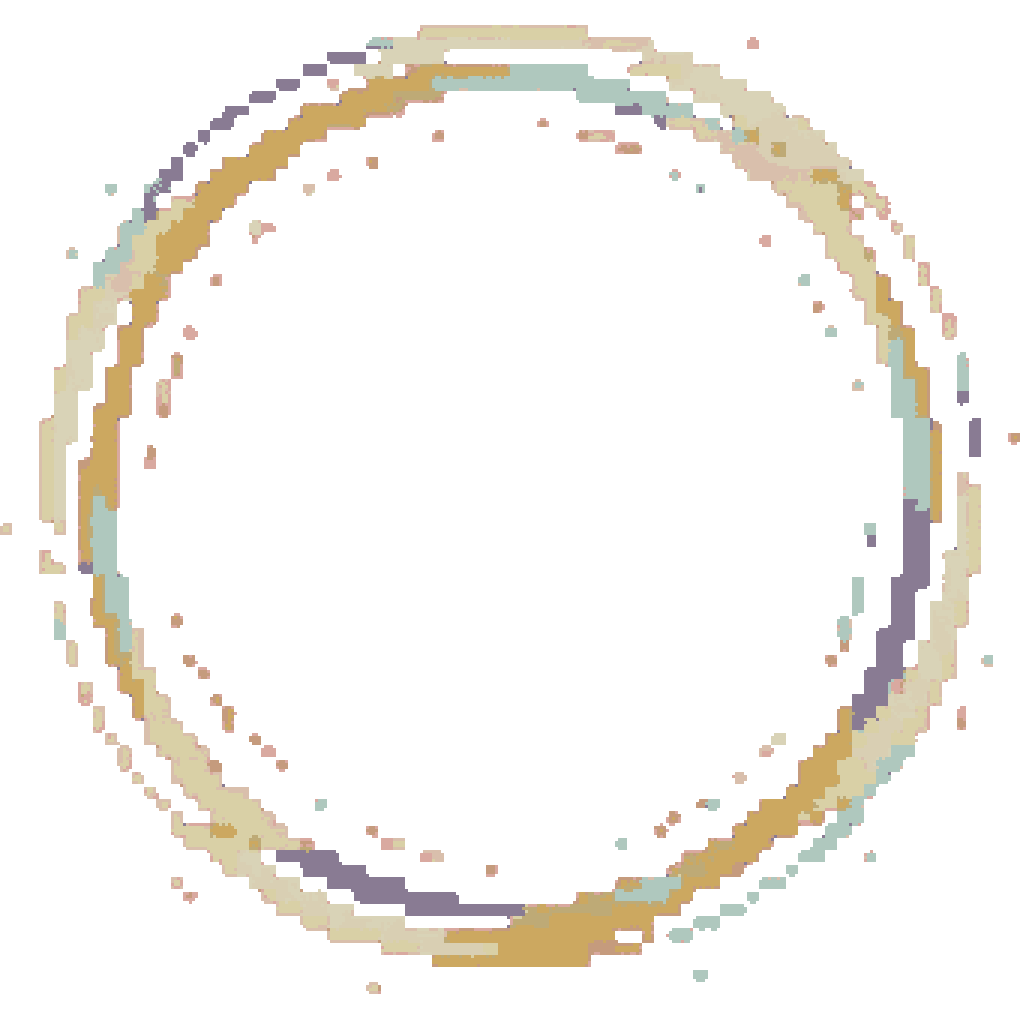
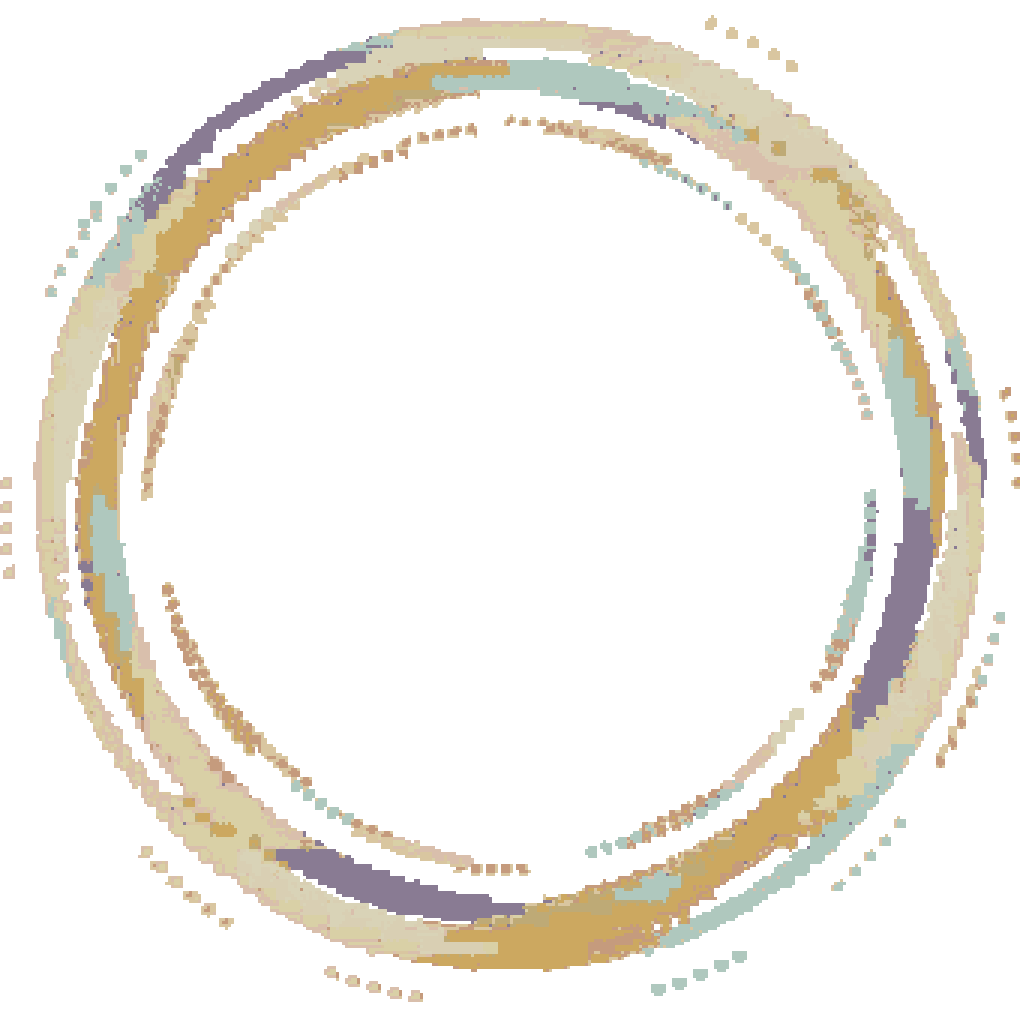
pixfx 第三组第二轮：流明碎光环三变体补成连续环、去洋红残边；docs/199 §7.9 补用户第二轮（忍冬一道斩痕 + 入场顿帧）、预审结论与 ensure_imported 不重导改图的坑

diff --git a/docs/199_ult_proto.md b/docs/199_ult_proto.md
@@ -360,6 +360,9 @@ cloud-results/ult-T2 3c1e79e0f（`python tools/ult_pair.py --t0 cloud-results/ul
 - 同 seed TRACE（seed 3、60 秒、终结技 20 秒放 1 次）：流明 / 水月 / 铃兰与 ee840953a 逐行相同；归溟幽灵鲨在 ee840953a 上基线报 `get_width on null` 脚本错误跑不成，改对 f45f9e76e（幽灵鲨段两提交间未改）逐行相同。
 - 出图：Vertex 成功 9 张（巨锯、光柱、光环 2、探照光束、斩痕三联、小触手三联、忍冬 1 张未用、另 1 张斩痕重复），Lite 约 0.034 美元一张，约 0.3 美元；限流严重（光环 3 号 5 次 429 未出，改程序变体）。
 - 录像（左旧右新、原速 30 帧、带音效）：`Claude outputs/ult_fx_c_{specter,lumen,mizuki,suzuran}_对照.mp4`。
+- **10-30 第二轮**：用户「忍冬的应该只有一道，并且要把忍冬的入场停顿做出来，得让玩家知道是她来出手」→ 去掉交叉斩，只留一道斩痕（爆亮冷却 + 沿痕粒子从起点往尽头依次爆开 + 狐火余烬）；忍冬人形放大到 1.7、现身时周围压暗，到位那一刻画面层顿帧 `ult/sz_appear_stop`（0.22 秒，`vfx.stop`，不改模拟步长）。预审修正：流明上飘光点原来把小号粒子帧条拉到 400+ 半径成大方块 → 改多处小团；碎光环三个变体做角向膨胀补成连续环、去洋红残边；流明 v2 不再画旧 `fx_beacon_ignite`（橙色格纹放大 3 倍，发白、画风不合）；水月小触手位置 / 大小 / 时刻按哈希错开，根部土屑缩小变暗；尖端水沫减半。
+- 预审最终：幽灵鲨「锯齿重复」（整圈单张贴图，锯齿规则是造型）、铃兰「斩痕与周围弹幕重叠」、水月「抓人小触手在敌群里重叠」（位置跟被抓敌人走）、流明「发白」（本地探针近白 2%，冲击帧闪白是框架的）与「光环矩形块」（已是连续环，块是 3 像素格画风）判误报，照发。
+- 坑：`godot_runner.ensure_imported` 只补缺的导入文件，**改过的贴图不会重导**；改图后要删 `game/.godot/imported/<名>@2x.png-*` 再导入，否则录像里还是旧图。
 
 ## 8 已知问题 / 下一步
 
